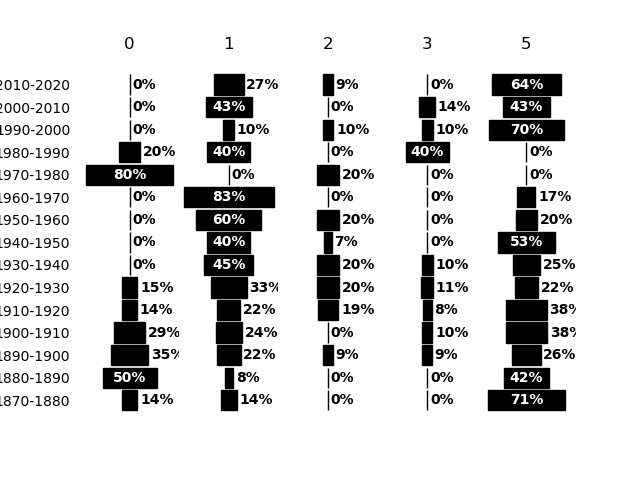
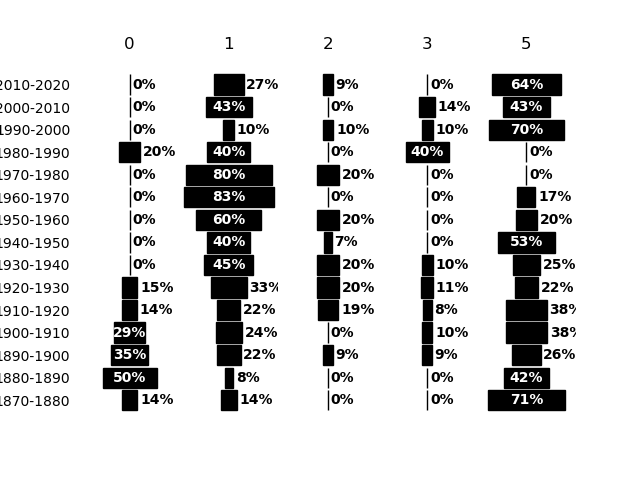
update polish

Changed region(s): [[0.125, 0.3438, 0.4375, 0.4062], [0.1562, 0.6562, 0.2812, 0.75]]

diff --git a/polish.py b/polish.py
@@ -1,7 +1,7 @@
 start_year = 1870
 year_increment = 10
-data = ['0', [1, 13, 8, 6,  5,  8, 0, 0, 0,  0, 4, 1, 0, 0, 0],
-        '1', [1,  2, 5, 5,  8, 18, 9, 6, 3, 10, 0, 2, 1, 3, 3],
+data = ['0', [1, 13, 8, 6,  5,  8, 0, 0, 0,  0, 0, 1, 0, 0, 0],
+        '1', [1,  2, 5, 5,  8, 18, 9, 6, 3, 10, 4, 2, 1, 3, 3],
         '2', [0,  0, 2, 0,  7, 11, 4, 1, 1,  0, 1, 0, 1, 0, 1],
         '3', [0,  0, 2, 2,  3,  6, 2, 0, 0,  0, 0, 2, 1, 1, 0],
         '5', [5, 11, 6, 8, 14, 12, 5, 8, 1,  2, 0, 0, 7, 3, 7]]
